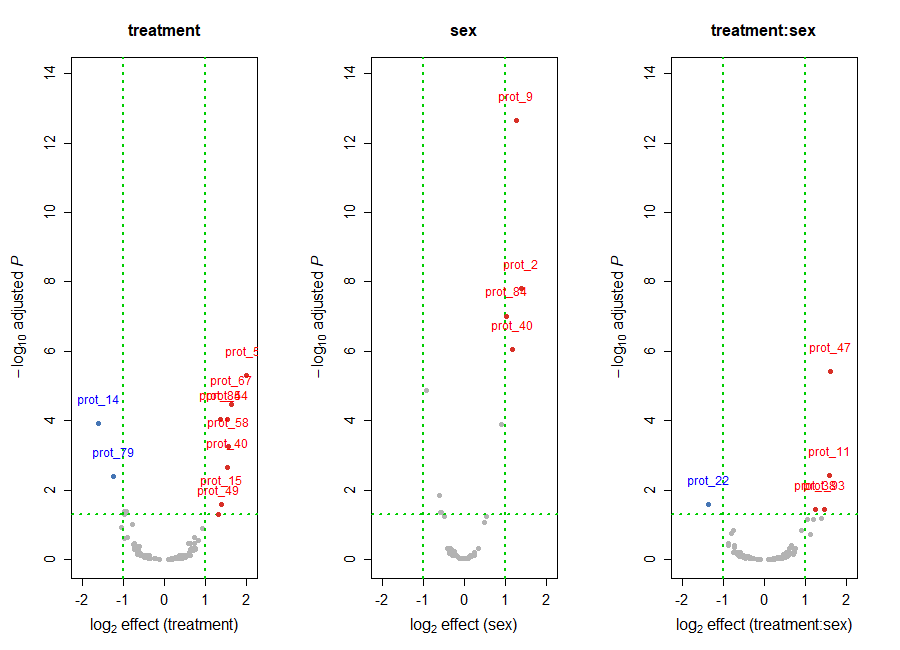
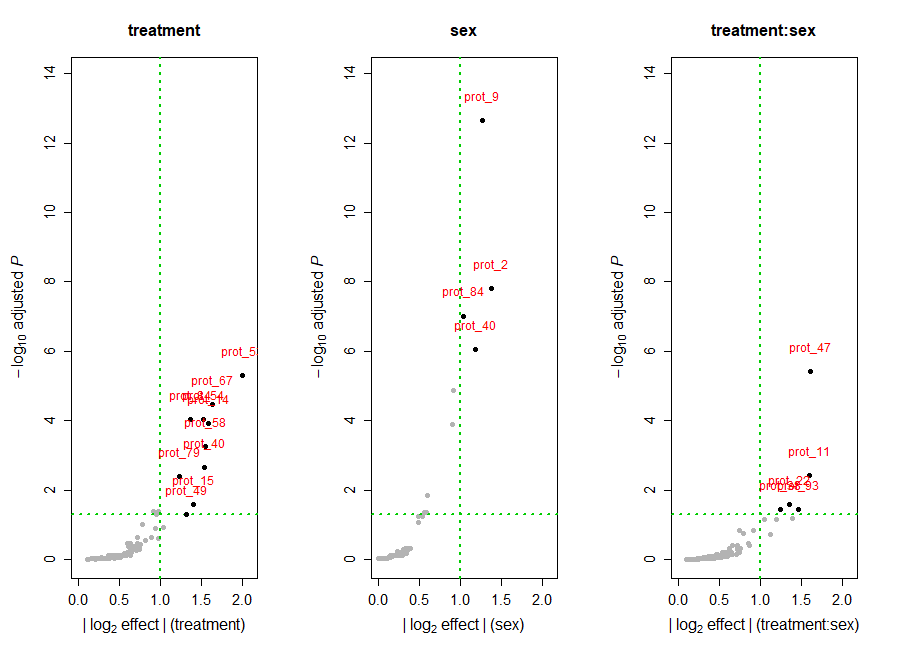
Release 1.1.0: term verdicts use log2_effect and magnitude volcano.
Source-commit: dab8788

diff --git a/README.md b/README.md
@@ -35,7 +35,7 @@ Install from GitHub:
 ```r
 # install.packages("remotes")
 remotes::install_github("hiows/STATassist")          # latest
-remotes::install_github("hiows/STATassist@v1.0.1")   # pinned to a release
+remotes::install_github("hiows/STATassist@v1.1.0")   # pinned to a release
 ```
 
 Each release is tagged, so the pinned form keeps returning the same code no matter what lands on the default branch afterwards. `v0.6.0` is the previous release, and [NEWS.md](NEWS.md) says what changed between them: a fifth and sixth and seventh result contract for a table, a scored evaluation and a clustering; factorial and categorical comparisons with their own significance and plots; model evaluation on held-out rows; feature-pair association screens; and a grouped barplot beside the boxplot. Nothing an existing call reads has moved.
@@ -577,6 +577,8 @@ draw_forest_plot(
   feats = paste0("prot_", 1:20), sort_by = "pvalue"
 )
 ```
+
+`by = "term"` puts each term's `log2_effect` on its own panel and plots `|log2 effect|`, so the axis is a magnitude rather than an up/down fold change.
 
 ```
 <sa_significance> factorial_comparison

diff --git a/NEWS.md b/NEWS.md
@@ -1,5 +1,14 @@
 # STATassist (development version)
 
+# STATassist 1.1.0
+
+* `estimate_significance(by = "term")` verdict tables carry `log2_effect`
+  instead of `log2fc` (breaking for callers that read that column by name).
+* Term panels of `draw_volcano_plot()` plot `|log2 effect|` with a single
+  cutoff guide and no up/down colouring.
+* Term volcano significant points are black; labels stay red so they are not
+  read as up-regulation.
+
 # STATassist 1.0.1
 
 * `compare_factorial_groups()` `$terms$log2_effect` treats absolute values
